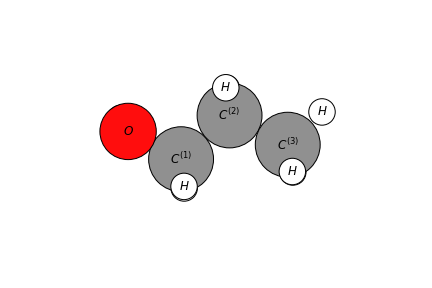
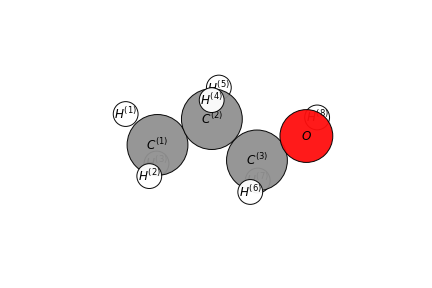
Updating SVT and cache. WIP.

Changed region(s): [[0.2106, 0.25, 0.7824, 0.7188]]

diff --git a/examples/utilities/tutorial_utils.py b/examples/utilities/tutorial_utils.py
@@ -44,10 +44,10 @@ hyper_dict = {"Minimal Power Spectrum":dict(
                               ),
           "Radial Spectrum": dict(
                                   body_order=1,
-                                  interaction_cutoff=3.5,
+                                  interaction_cutoff=1.75,
                                   max_radial=6,
                                   max_angular=0,
-                                  gaussian_sigma_constant=0.4,
+                                  gaussian_sigma_constant=0.25,
                                   gaussian_sigma_type="Constant",
                                   cutoff_smooth_width=0.5,
                                   ),
@@ -363,9 +363,16 @@ class learning_tutorial(object):
         for nf in tqdm(np.random.randint(2,ref, size=min(N, ref))):
             f(frame_idx=np.random.randint(len(self.frames),size=nf), pretend=True)
 class SOAP_tutorial(object):
-    def __init__(self, input_file='./data/molecules/1-Propanol.xyz',training_percentage=0.8, interactive = False, verbose=True, hyperparameters = dict(**hyper_dict['Power Spectrum']), number_of_frames=None, property=None):
+    def __init__(self, input_file='./data/molecules/1-Propanol.xyz',\
+                 interactive = False, verbose=True, \
+                 hyperparameters = dict(**hyper_dict['Power Spectrum']),
+                 center_select = []
+                 ):
 
-        self.hyperparameters = {h:hyperparameters[h] if h in hyperparameters else hyper_dict['Power Spectrum'][h] for h in hyper_dict['Power Spectrum']}
+        if(isinstance(hyperparameters, str)):
+            self.hyperparameters = hyper_dict[hyperparameters]
+        else:
+            self.hyperparameters = {h:hyperparameters[h] if h in hyperparameters else hyper_dict['Power Spectrum'][h] for h in hyper_dict['Power Spectrum']}
         self.verbose = verbose
         self.verbosity_wrap = lambda s: (None if not verbose else display(Markdown(s)))
 
@@ -378,7 +385,9 @@ class SOAP_tutorial(object):
         self.frames=read(self.input_file, ":")
         self.interactive=interactive
         self.sliders = {val:
-                        widgets.FloatSlider(value = self.hyperparameters.get(val, hyper_vals[val]['options'][0]),
+                        widgets.FloatSlider(
+                                    value = self.hyperparameters.get(val,
+                                                hyper_vals[val]['options'][0]),
                                     min = hyper_vals[val]['options'][0],
                                     max = hyper_vals[val]['options'][1],
                                     description = hyper_vals[val]['name'],
@@ -387,7 +396,9 @@ class SOAP_tutorial(object):
                                     style=style,\
                                     )
                         if isinstance(hyper_vals[val]['options'][0],float) else
-                        widgets.IntSlider(value = self.hyperparameters.get(val, hyper_vals[val]['options'][0]),
+                        widgets.IntSlider(
+                                    value = self.hyperparameters.get(val,
+                                                hyper_vals[val]['options'][0]),
                                     min = hyper_vals[val]['options'][0],
                                     max = hyper_vals[val]['options'][1],
                                     description = hyper_vals[val]['name'],
@@ -395,23 +406,34 @@ class SOAP_tutorial(object):
                                     step = 1,
                                     style=style,\
                                     )
-                        if isinstance(hyper_vals[val]['options'][0],int) and hyper_vals[val]['options'][0]!=True else
+                        if isinstance(hyper_vals[val]['options'][0],int) and
+                            hyper_vals[val]['options'][0]!=True else
                         widgets.Dropdown(options=hyper_vals[val]['options'],
                                          style=style,\
-                                         value = self.hyperparameters.get(val, hyper_vals[val]['options'][0]),
+                                         value = self.hyperparameters.get(val,
+                                                hyper_vals[val]['options'][0]),
                                          description=hyper_vals[val]['name'],
                                          )
                         for val in hyper_vals if 'fixed' not in hyper_vals[val]}
-
+        self.get_input(a=None)
+        self.input_button = widgets.Dropdown(options=[*file_options],#, "Other"],
+                                     style=style,\
+                                     value = self.input_file,
+                                     description="Input File: ",
+                                     )
+        self.input_button.observe(self.get_input, names='value')
+        self.sliders['center_select'] = widgets.SelectMultiple(
+                                            options=list(self.labels),
+                                            value=[l for l in self.labels if "H" not in l],
+                                            description="Where to Place SOAP Centers",
+                                            style=style)
+        self.sliders['center_select'].observe(self.set_centers, names='value')
+        self.centers = [list(self.labels).index(i) for i in self.sliders['center_select'].value]
         if(interactive):
-            self.input_button = widgets.Dropdown(options=[*file_options],#, "Other"],
-                                         style=style,\
-                                         value = self.input_file,
-                                         description="Input File: ",
-                                         )
-            self.input_button.observe(self.get_input, names='value')
             display(self.input_button)
             self.preset_button = _button_template_(list(hyper_dict.keys()), "SOAP Presets: ", self.disp_func)
+            if(isinstance(hyperparameters, str)):
+                self.preset_button.value = hyperparameters
             self.compute_button = widgets.ToggleButton(
                                     value=False,
                                     description='Compute SOAP Vectors',
@@ -425,19 +447,19 @@ class SOAP_tutorial(object):
             self.compute_button.observe(self.output_soap_vectors, names='value')
             display(self.compute_button)
 
-            slider_order = ['property_to_ml', 'kernel_type', 'training_percentage',*list(hyper_vals.keys())]
+            slider_order = ['center_select',*list(hyper_vals.keys())]
             for s in slider_order:
                 if(s in self.sliders):
                     display(self.sliders[s])
                     self.sliders[s].observe(lambda change: self.change_func(change), names='value')
-        self.get_input(a=None)
-
     def change_func(self,change):
         change['owner'].value = change['new']
         for s in self.hyperparameters:
             if(s in self.sliders):
                 if(self.hyperparameters[s]!=self.sliders[s].value):
                     self.hyperparameters[s] = self.sliders[s].value
+    def set_centers(self, a):
+        self.centers = [list(self.labels).index(i) for i in self.sliders['center_select'].value]
     def disp_func(self,a):
         for s in self.sliders:
             if(s in self.hyperparameters):
@@ -453,85 +475,105 @@ class SOAP_tutorial(object):
         self.positions = self.frames[0].get_positions()
         self.symbols = np.array([i for i in self.frames[0].symbols])
         self.format_positions()
-        self.inds = sorted(range(len(self.positions)), key=lambda i: (self.symbols[i]=="H",self.symbols[i],self.positions[i][0]))
     def format_positions(self):
         from sklearn.decomposition import PCA
-        print(self.positions)
         pca = PCA(n_components = 3)
-        pca.fit([self.positions[i] for i in range(len(self.positions)) if self.symbols[i]!="H"])
+        pca.fit([self.positions[i] for i in range(len(self.positions))])
         self.positions = pca.transform(self.positions)
-        print(self.positions)
-
+        self.inds = sorted(range(len(self.positions)), key=lambda i: self.positions[i][0])
+        self.positions = self.positions[self.inds]
+        self.symbols = self.symbols[self.inds]
+        super_scripts = ['' if list(self.symbols).count(s)==1
+                            else '^{{({})}}'.format(list(self.symbols)[:i].count(s)+1) \
+                            for i,s in enumerate(list(self.symbols))]
+        self.labels = np.array([r'${}{}$'.format(self.symbols[i],s)
+                                    for i,s in enumerate(super_scripts)])
     def output_params(self):
         self.verbosity_wrap('Our input file is {}.'.format(self.input_file))
         self.verbosity_wrap("<br/>Our hyperparameters are {}".format(markdown_table_from_dict({hyper_vals[k]['name']:[self.hyperparameters[k]] for k in self.hyperparameters if 'fixed' not in hyper_vals[k]}, headers =["Parameter", "Value"])))
     def set(self, value_name, value):
         assert value_name in self.sliders
         self.sliders[value_name].value=value
+        if(value_name in self.hyperparameters):
+            self.hyperparameters[value_name]=value
     def get_soap_vectors(self,average=False):
         representation = SOAP(**wrap_body_order(self.hyperparameters))
         features = representation.transform(self.frames).get_dense_feature_matrix(representation)
         if(average):
-            features=np.sum(features, axis=0)
-        return features
+            features=np.mean(features, axis=0)
+            return features
+        return features[self.inds]
     def output_soap_vectors(self, a=None):
         sv = self.get_soap_vectors(True)
         print(sv)
         if(self.interactive):
             self.compute_button.value = False
-    def show_vectors(self, show=True):
-        order=[i for i in self.inds if self.symbols[i]!="H"]
-        super_scripts = [list(self.symbols[self.inds][:ai]).count(self.symbols[ai])+1 for ai in order]
-        vectors = self.get_soap_vectors()
-        data = np.array([['%1.3f' % (np.dot(vectors[i], vectors[j])/(np.linalg.norm(vectors[i])*np.linalg.norm(vectors[j]))) for i in order] for j in order])
-        labels = [r'${}{}$'.format(self.frames[0].symbols[i],'^{{({})}}'.format(super_scripts[i]) if list(self.symbols).count(self.symbols[i])>1 else '') for i in order]
-        df = pd.DataFrame(data=data, columns=labels, index=labels)
-        df.name = "Similarity Kernel"
+    def show_vectors(self, other=None, show=True, average=False):
+        vectorsA = self.get_soap_vectors(average=average)
+        if(other!=None):
+            for h in self.hyperparameters:
+                other.hyperparameters[h] = self.hyperparameters[h]
+                if(h in self.sliders):
+                    other.set(h, self.hyperparameters[h])
+            vectorsB=other.get_soap_vectors(average=average)
+        else:
+            other=self
+            vectorsB = vectorsA
+        print(vectorsA.shape, vectorsB.shape)
+        if(average==False):
+            data = np.array([['%1.3f' % (np.dot(vectorsB[i], vectorsA[j])/(np.linalg.norm(vectorsB[i])*np.linalg.norm(vectorsA[j]))) for i in other.centers] for j in self.centers])
+            df = pd.DataFrame(data=data, columns=other.labels[other.centers], index=self.labels[self.centers])
+        else:
+            df = pd.DataFrame(data=[[np.dot(vectorsA, vectorsB)/(np.linalg.norm(vectorsA)*np.linalg.norm(vectorsB))]], columns=["A"], index=["B"])
+
+        df.name = ("Self-" if other==self else '') + "Similarity " + ("Kernel" if not average else "")#"Self-Similarity Kernel" if other==self else "Similarity Kernel"
         if(show):
             display(HTML(df.to_html()))
-        # df[:,0] = labels
         return df
+    def make_figure(self, img_name):
+        from ase.data import covalent_radii, atomic_numbers
+        from matplotlib import pyplot, patches
+        from ase.data.colors import jmol_colors
+        style = {
+         "horizontalalignment":"center",
+         "verticalalignment":"center",
+         "fontsize":12
+        }
+        fig, ax = pyplot.subplots(1)
+
+        for i,p in enumerate(self.positions):
+            ax.text(*p[:2], \
+                    s=self.labels[i],
+                    **style,
+                    zorder=p[-1]+0.01
+                    )
+            ax.add_artist(patches.Circle(p[:2],\
+                                         covalent_radii[atomic_numbers[self.symbols[i]]], \
+                                         facecolor= jmol_colors[atomic_numbers[self.symbols[i]]], \
+                                         edgecolor='k', \
+                                         alpha=0.95,
+                                         zorder=p[-1]))
+        ax.axis('off')
+        bounds = [*np.min(self.positions, axis=0), *np.max(self.positions, axis=0)]
+        ax.set_xlim([bounds[0]-1.5, bounds[3]+1.5])
+        ax.set_ylim([bounds[1]-1.5, bounds[5]+1.5])
+        ax.set_aspect('equal')
+        fig.savefig(img_name)
+        fig.clf()
     def show_molecule(self, show=True):
         import os
         img_name = './images/cache/'+self.input_file[-list(reversed(self.input_file)).index('/'):].replace('xyz','png')
         if(not os.path.exists(img_name)):
-            from ase.data import covalent_radii, atomic_numbers
-            from matplotlib import pyplot, patches
-            from ase.data.colors import jmol_colors
-            style = {
-             "horizontalalignment":"center",
-             "verticalalignment":"center",
-             "fontsize":12
-            }
-            fig, ax = pyplot.subplots(1)
-
-            for ai in range(len(self.positions)):
-                super_script = list(self.symbols[self.inds][:ai]).count(self.symbols[ai])+1
-                ax.text(*self.positions[ai][:2], \
-                        s=r'${}{}$'.format(self.symbols[ai],'^{{({})}}'.format(super_script) if self.symbols[ai]!='H' and list(self.symbols).count(self.symbols[ai])>1 else ''), \
-                        **style,
-                        zorder=self.positions[ai][-1]+0.01
-                        )
-                ax.add_artist(patches.Circle(self.positions[ai][:2],\
-                                             covalent_radii[atomic_numbers[self.symbols[ai]]], \
-                                             facecolor= jmol_colors[atomic_numbers[self.symbols[ai]]], \
-                                             edgecolor='k', \
-                                             zorder=self.positions[ai][-1]))
-            ax.axis('off')
-            bounds = [*np.min(self.positions, axis=0), *np.max(self.positions, axis=0)]
-            ax.set_xlim([bounds[0]-1.5, bounds[3]+1.5])
-            ax.set_ylim([bounds[1]-1.5, bounds[5]+1.5])
-            ax.set_aspect('equal')
-            fig.savefig(img_name)
-            fig.clf()
+            self.make_figure(img_name)
         if(show):
             display(Image(img_name))
-            os.remove(img_name)
         return img_name
-    def show_all(self, ax=None):
-        from matplotlib import pyplot, patches
-        m=self.show_molecule(show=False)
-        df=self.show_vectors(show=False)
-        # df['image']=[m]
-        display(HTML("<table><tr><td><img src="+m+"></td><td>" + df.to_html()+"</td></tr></table>"))
-        # display(Image(m))
+    def compare(self, other_soap=None, average=False):
+        m1=self.show_molecule(show=False)
+        df=self.show_vectors(show=False, other=other_soap, average=average)
+        if(other_soap!=None):
+            m2=other_soap.show_molecule(show=False)
+            display(HTML("<table style='align: center'><tr><th style=\"text-align:center\">Molecule A</th><th style=\"text-align:center\">{}</th><th style=\"text-align:center\">Molecule B</th><tr><td><img src={}></td><td>{}</td><td><img src={}></td></tr></table>".format(df.name, m1,df.to_html(),m2)))
+        else:
+            m2=''
+            display(HTML("<table style='align: center'><tr><th style=\"text-align:center\">Molecule</th><th style=\"text-align:center\">{}</th><tr><td><img src={}></td><td>{}</td></tr></table>".format(df.name, m1,df.to_html())))
